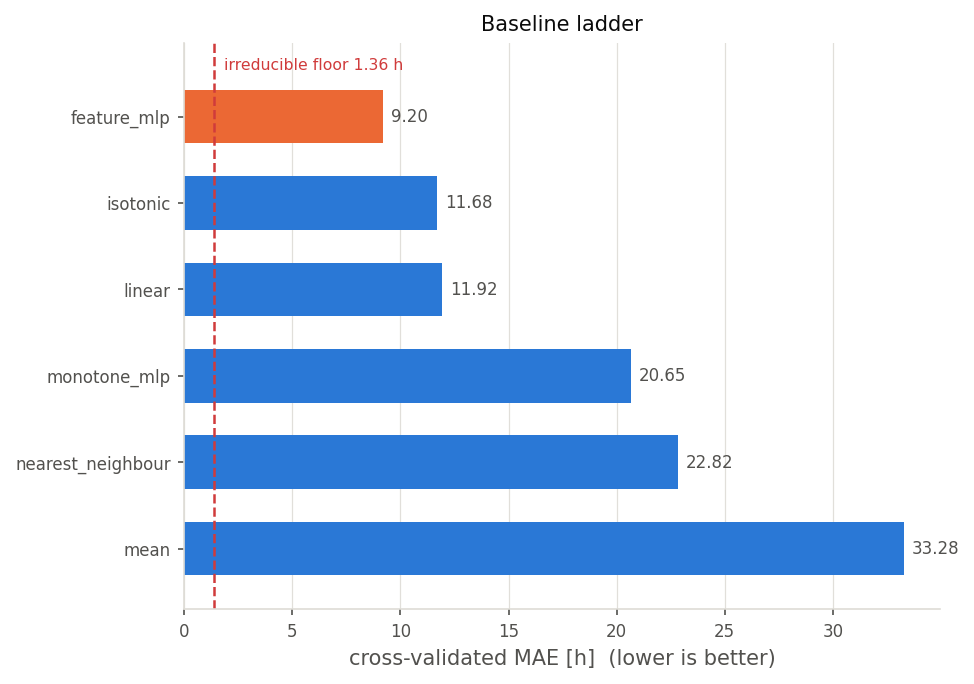
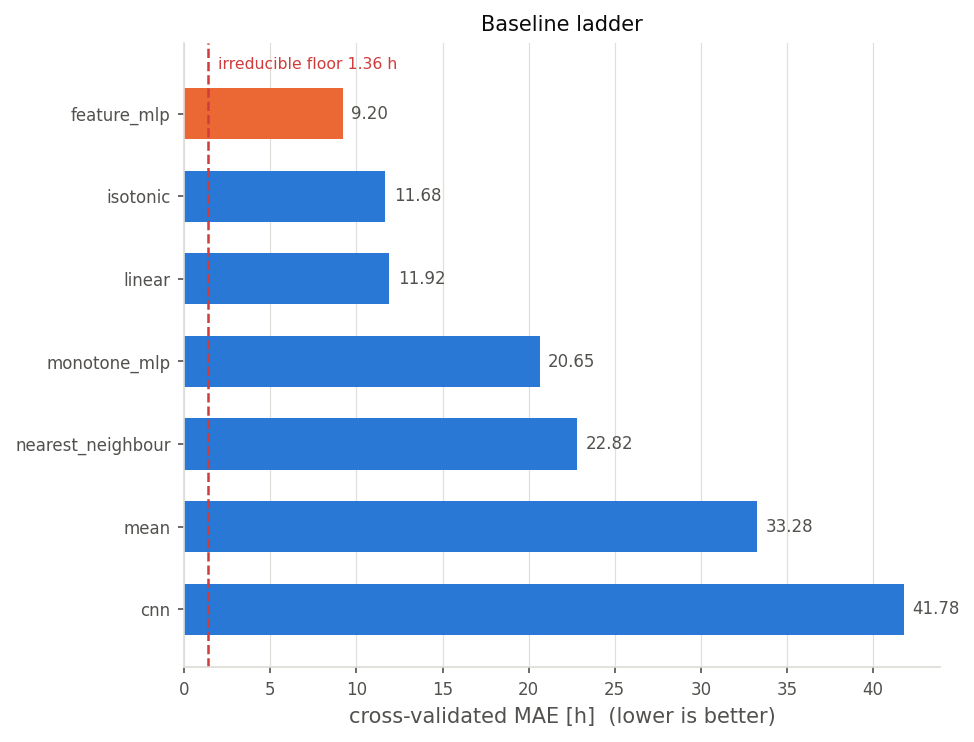
feat(eval): CNN arm, learning curve and shuffled-label control
Wire the convolutional architecture into the pipeline, together with the
learning curve over 2..5 training groups and the permuted-label negative
control.

Two defects surfaced while measuring the CNN. Per-feature standardisation was
being applied per pixel across nine images, dividing by the near-zero spread of
background pixels and diverging to MAE 2e13; temperature maps arrive already
scaled to [0,1] and now bypass it. Augmentation replaced the training batch
rather than extending it, so the network never saw a clean example; it now
trains on the originals plus three augmented rounds, which improves CNN MAE
from 47.0 to 41.8.

Reduce the image size to 64 px and the epoch budget to 200 after measuring no
accuracy gain at 128 px, and correct the documented runtime to 5m37s.

Changed region(s): [[0.0, 0.0614, 0.9856, 0.9825], [0.4928, 0.0, 0.6468, 0.0614], [0.0616, 0.1535, 0.1848, 0.1842]]

diff --git a/tests/test_estimators.py b/tests/test_estimators.py
@@ -87,7 +87,7 @@ def test_same_seed_gives_identical_predictions(monotone_data):
 
 def test_augmentation_callback_is_applied_when_supplied():
     """The CNN arm trains on augmented tensors; the hook must actually fire."""
-    features = np.zeros((4, 8, 8, 1))
+    features = np.zeros((4, 64))
     target = np.array([10.0, 20.0, 30.0, 40.0])
     calls = []
 
@@ -97,10 +97,79 @@ def test_augmentation_callback_is_applied_when_supplied():
 
     configure(seed=0)
     KerasRegressor(
-        lambda: build_mlp(n_features=64), epochs=2, augment=spy
-    ).fit(features.reshape(4, 64), target)
+        lambda: build_mlp(n_features=64), epochs=2, augment=spy, augment_rounds=3
+    ).fit(features, target)
 
-    assert len(calls) == 1
+    assert len(calls) == 3
+
+
+def test_augmentation_expands_the_training_set_rather_than_replacing_it():
+    """Replacing would mean the model never sees a single clean example."""
+    features = np.zeros((4, 64))
+    target = np.array([10.0, 20.0, 30.0, 40.0])
+    seen = {}
+
+    def spy(batch, rng):
+        seen["rounds"] = seen.get("rounds", 0) + 1
+        return batch + 1.0
+
+    class Recorder:
+        def compile(self, **kwargs):
+            pass
+
+        def fit(self, x, y, **kwargs):
+            seen["n_train"] = len(x)
+            seen["n_target"] = len(y)
+            seen["has_clean"] = bool((x == 0.0).all(axis=1).any())
+
+        def predict(self, x, **kwargs):
+            return np.zeros((len(x), 1))
+
+    configure(seed=0)
+    KerasRegressor(
+        Recorder, epochs=1, augment=spy, augment_rounds=2, standardise="none"
+    ).fit(features, target)
+
+    assert seen["n_train"] == 4 * 3, "expected originals plus two augmented rounds"
+    assert seen["n_target"] == seen["n_train"], "targets must be tiled to match"
+    assert seen["has_clean"], "the clean originals must remain in the training set"
+
+
+def test_image_input_is_not_standardised_per_pixel():
+    """Per-pixel standardisation on a handful of images explodes.
+
+    A background pixel that is near-constant across the training fold has a
+    standard deviation of ~1e-8; dividing by it produces astronomically large
+    inputs and the network diverges. Temperature maps already arrive scaled to
+    [0, 1], so they must pass through untouched.
+    """
+    rng = np.random.default_rng(0)
+    images = np.full((6, 8, 8, 1), 0.5)
+    images += rng.normal(0.0, 1e-9, images.shape)  # near-constant background
+    images[:, :4] = np.linspace(0.1, 0.9, 6)[:, None, None, None]  # the actual signal
+    target = np.linspace(10.0, 100.0, 6)
+
+    configure(seed=0)
+    model = KerasRegressor(
+        lambda: build_mlp(n_features=64), epochs=50, standardise="none"
+    ).fit(images.reshape(6, 64), target)
+    predictions = model.predict(images.reshape(6, 64))
+
+    assert np.isfinite(predictions).all()
+    assert np.abs(predictions).max() < 1e4, "predictions exploded"
+
+
+def test_none_standardisation_leaves_inputs_untouched():
+    features = np.array([[0.25], [0.5], [0.75]])
+    target = np.array([10.0, 20.0, 30.0])
+
+    configure(seed=0)
+    model = KerasRegressor(
+        lambda: build_mlp(n_features=1), epochs=5, standardise="none"
+    ).fit(features, target)
+
+    assert np.allclose(model.feature_mean_, 0.0)
+    assert np.allclose(model.feature_std_, 1.0)
 
 
 def test_standardisation_uses_training_statistics_for_unseen_data(monotone_data):

diff --git a/src/glys_rul/evaluate.py b/src/glys_rul/evaluate.py
@@ -128,7 +128,55 @@ def run_evaluation(
                 ),
             )
 
+        from .dataset import augment_batch, build_image_tensor
+        from .models import build_cnn
+
+        images = build_image_tensor(
+            table, ColorScale.from_image(scale_path), data_dir, image_size=config.IMAGE_SIZE
+        )
+        configure(seed=0)
+        record(
+            "cnn",
+            cross_validate(
+                lambda: KerasRegressor(
+                    lambda: build_cnn(image_size=config.IMAGE_SIZE),
+                    epochs=config.CNN_EPOCHS,
+                    augment=augment_batch,
+                    augment_rounds=config.CNN_AUGMENT_ROUNDS,
+                    # Temperature maps are already scaled to [0, 1]; per-pixel
+                    # standardisation over nine images divides by the near-zero
+                    # spread of background pixels and diverges.
+                    standardise="none",
+                ),
+                images,
+                target,
+                groups,
+                baseline_mae=baseline_mae,
+            ),
+        )
+
+    # How much of the error is simply lack of data? Retrain on 2..n-1 groups.
+    from .controls import shuffled_label_control
+
+    unique_groups = sorted(set(groups.tolist()))
+    learning_curve = []
+    for size in range(2, len(unique_groups)):
+        subset = np.isin(groups, unique_groups[:size])
+        if len(set(groups[subset].tolist())) < 2:
+            continue
+        sub = cross_validate(BASELINES["isotonic"], totals[subset], target[subset], groups[subset])
+        learning_curve.append({"groups": size, "mae": round(sub.metrics["mae"], 6)})
+
+    # A model that still scores well on permuted labels is memorising, not learning.
+    shuffled = shuffled_label_control(target, groups, np.random.default_rng(0))
+    control = cross_validate(BASELINES["isotonic"], totals, shuffled, groups)
+
     results = {
+        "learning_curve": learning_curve,
+        "shuffled_label_control": {
+            "mae": round(control.metrics["mae"], 6),
+            "no_skill_mae": round(baseline_mae, 6),
+        },
         "dataset": {
             "n_files": int(len(table)),
             "n_groups": int(table["group"].nunique()),
@@ -174,6 +222,7 @@ def _write_figures(output_dir, results, totals, target, models, predictions) -> 
     from .figures import (
         plot_baseline_ladder,
         plot_confusion,
+        plot_learning_curve,
         plot_predicted_vs_actual,
         plot_residuals,
     )
@@ -182,6 +231,15 @@ def _write_figures(output_dir, results, totals, target, models, predictions) -> 
     floors = results["floors"]
     best = min(models, key=lambda name: models[name]["mae"])
     best_predictions = np.array(predictions[best], dtype=float)
+
+    curve = results.get("learning_curve") or []
+    if len(curve) >= 2:
+        plot_learning_curve(
+            [entry["groups"] for entry in curve],
+            [entry["mae"] for entry in curve],
+            floors,
+            figures_dir / "learning_curve.png",
+        )
 
     plot_predicted_vs_actual(
         target, best_predictions, floors, figures_dir / "predicted_vs_actual.png"

diff --git a/src/glys_rul/estimators.py b/src/glys_rul/estimators.py
@@ -27,6 +27,8 @@ class KerasRegressor:
         loss: str = "mse",
         augment: Callable[[np.ndarray, np.random.Generator], np.ndarray] | None = None,
         seed: int = 0,
+        standardise: str = "feature",
+        augment_rounds: int = 3,
     ) -> None:
         self.factory = factory
         self.epochs = epochs
@@ -35,6 +37,8 @@ class KerasRegressor:
         self.loss = loss
         self.augment = augment
         self.seed = seed
+        self.standardise = standardise
+        self.augment_rounds = augment_rounds
 
     def fit(self, features: np.ndarray, target: np.ndarray) -> KerasRegressor:
         import keras
@@ -43,14 +47,28 @@ class KerasRegressor:
         target = np.asarray(target, dtype=float)
 
         flat = features.reshape(len(features), -1)
-        self.feature_mean_ = flat.mean(axis=0)
-        self.feature_std_ = flat.std(axis=0)
-        # A constant column has zero spread; dividing by it would yield NaN.
-        self.feature_std_[self.feature_std_ == 0] = 1.0
+        if self.standardise == "none":
+            # Temperature maps already arrive scaled to [0, 1]. Standardising them
+            # per pixel across a handful of images divides by the near-zero spread
+            # of background pixels and blows the inputs up by orders of magnitude.
+            self.feature_mean_ = np.zeros(flat.shape[1])
+            self.feature_std_ = np.ones(flat.shape[1])
+        else:
+            self.feature_mean_ = flat.mean(axis=0)
+            self.feature_std_ = flat.std(axis=0)
+            # A constant column has zero spread; dividing by it would yield NaN.
+            self.feature_std_[self.feature_std_ == 0] = 1.0
 
         x = self._standardise(features)
-        if self.augment is not None:
-            x = self.augment(x, np.random.default_rng(self.seed))
+        scaled_target = target / self.target_scale
+
+        if self.augment is not None and self.augment_rounds > 0:
+            # Augmentation must *extend* the training set, not replace it. Handing
+            # back the same count would mean the model never sees a clean example.
+            rng = np.random.default_rng(self.seed)
+            rounds = [self.augment(x, rng) for _ in range(self.augment_rounds)]
+            x = np.concatenate([x, *rounds])
+            scaled_target = np.tile(scaled_target, 1 + self.augment_rounds)
 
         self.model_ = self.factory()
         self.model_.compile(
@@ -58,7 +76,7 @@ class KerasRegressor:
         )
         self.model_.fit(
             x,
-            target / self.target_scale,
+            scaled_target,
             epochs=self.epochs,
             batch_size=len(x),
             verbose=0,

diff --git a/tests/test_image_tensor.py b/tests/test_image_tensor.py
@@ -1,0 +1,64 @@
+import numpy as np
+import pytest
+
+from glys_rul.colorscale import ColorScale
+from glys_rul.dataset import build_image_tensor
+from glys_rul.evaluate import build_feature_table
+
+pytestmark = pytest.mark.slow
+
+TINY = {"min_component_px": 100, "erode_iterations": 1}
+
+
+def test_tensor_has_one_normalised_map_per_sample(engine_dir, scale_image):
+    table = build_feature_table(engine_dir, scale_image, **TINY)
+    scale = ColorScale.from_image(scale_image)
+
+    tensor = build_image_tensor(table, scale, engine_dir, image_size=32)
+
+    assert tensor.shape == (len(table), 32, 32, 1)
+    assert tensor.min() >= 0.0 and tensor.max() <= 1.0
+
+
+def test_hotter_engine_yields_a_higher_mean_map(engine_dir, scale_image):
+    table = build_feature_table(engine_dir, scale_image, **TINY)
+    scale = ColorScale.from_image(scale_image)
+
+    tensor = build_image_tensor(table, scale, engine_dir, image_size=32)
+    hottest = int(table["rul"].idxmin())
+    coldest = int(table["rul"].idxmax())
+
+    assert tensor[hottest].mean() > tensor[coldest].mean()
+
+
+def test_tensor_is_deterministic(engine_dir, scale_image):
+    table = build_feature_table(engine_dir, scale_image, **TINY)
+    scale = ColorScale.from_image(scale_image)
+
+    first = build_image_tensor(table, scale, engine_dir, image_size=32)
+    second = build_image_tensor(table, scale, engine_dir, image_size=32)
+
+    assert np.array_equal(first, second)
+
+
+def test_duplicate_files_produce_identical_tensors(engine_dir, scale_image):
+    """Byte-identical images must yield identical inputs, or grouping is meaningless."""
+    table = build_feature_table(engine_dir, scale_image, **TINY)
+    scale = ColorScale.from_image(scale_image)
+
+    tensor = build_image_tensor(table, scale, engine_dir, image_size=32)
+    for _, members in table.groupby("group"):
+        indices = list(members.index)
+        for other in indices[1:]:
+            assert np.array_equal(tensor[indices[0]], tensor[other])
+
+
+def test_row_order_follows_the_feature_table(engine_dir, scale_image):
+    """Tensor row i must correspond to table row i, or labels are misaligned."""
+    table = build_feature_table(engine_dir, scale_image, **TINY)
+    scale = ColorScale.from_image(scale_image)
+
+    tensor = build_image_tensor(table, scale, engine_dir, image_size=32)
+    means = tensor.mean(axis=(1, 2, 3))
+
+    assert np.corrcoef(means, table["total_c"].to_numpy())[0, 1] > 0.9

diff --git a/src/glys_rul/dataset.py b/src/glys_rul/dataset.py
@@ -42,6 +42,32 @@ def grouped_splits(
         yield np.flatnonzero(~mask), np.flatnonzero(mask)
 
 
+def build_image_tensor(
+    table, scale, data_dir, image_size: int = config.IMAGE_SIZE
+) -> np.ndarray:
+    """Convert every sample to a normalised single-channel temperature map.
+
+    Feeding calibrated temperature rather than raw RGB means the convolutional
+    and feature-based models consume the same physical quantity, so a difference
+    in their scores reflects architecture rather than input representation.
+
+    Rows follow `table` order, so tensor row i pairs with label i.
+    """
+    from pathlib import Path
+
+    from .io import load_rgb
+
+    maps = []
+    for filename in table["filename"]:
+        image = load_rgb(Path(data_dir) / filename)
+        temperatures = scale.to_map(image)
+        zoom = (image_size / temperatures.shape[0], image_size / temperatures.shape[1])
+        resized = _fit_to(ndimage.zoom(temperatures, zoom, order=1, mode="nearest"),
+                          image_size, image_size)
+        maps.append(resized / config.SCALE_VMAX)
+    return np.clip(np.stack(maps)[..., None], 0.0, 1.0)
+
+
 def augment_batch(
     images: np.ndarray,
     rng: np.random.Generator,

diff --git a/src/glys_rul/config.py b/src/glys_rul/config.py
@@ -31,8 +31,9 @@ MAX_ROUNDTRIP_ERROR_C = 50.0  # colour scale must invert at least this precisely
 # --- modelling ---------------------------------------------------------
 SEEDS = (0, 1, 2, 3, 4)
 TARGET_SCALE = 100.0         # RUL is divided by this before training
-IMAGE_SIZE = 128
-CNN_EPOCHS = 300
+IMAGE_SIZE = 64           # 128 px costs 4x the time for no measured accuracy gain
+CNN_EPOCHS = 200
+CNN_AUGMENT_ROUNDS = 3    # training set is originals plus this many augmented copies
 MLP_EPOCHS = 500
 LEARNING_RATE = 1e-3
 MAX_LOGO_GROUPS = 10         # above this, fall back to GroupKFold

diff --git a/docs/design/2026-08-06-glys-rul-design.md b/docs/design/2026-08-06-glys-rul-design.md
@@ -282,7 +282,7 @@ at runtime. `make validate` runs the audit alone and prints the contract report.
 ### 7.1 Execution
 
 ```bash
-docker compose up                        # full reproduction, ~2.5 min (measured 2m28s)
+docker compose up                        # full reproduction, ~6 min (measured 5m37s)
 docker compose --profile search up       # optimisation campaign, ~40 min
 docker compose --profile lab up          # Jupyter
 uv sync && make reproduce                # non-Docker fallback, same lockfile
